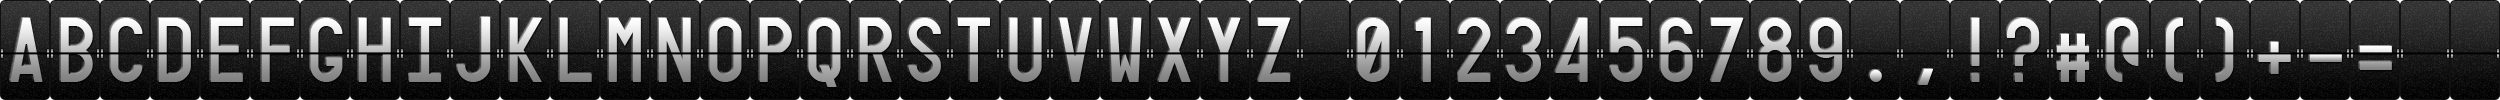
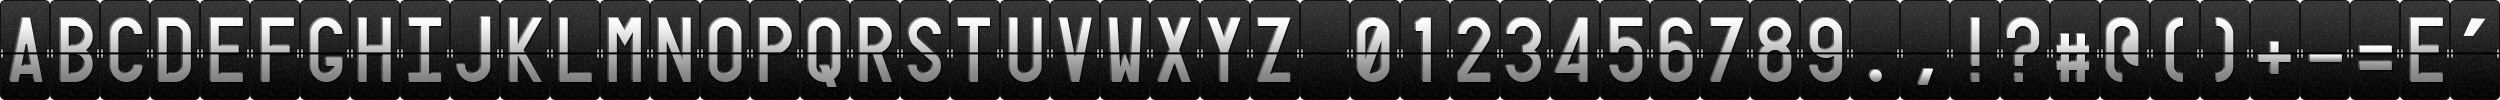
try on display boarding

Changed region(s): [[0.936, 0.15, 0.9984, 0.54], [0.936, 0.54, 0.9984, 0.84]]

diff --git a/src/boardingpass.html b/src/boardingpass.html
@@ -318,22 +318,25 @@ chromium-browser --noerrdialogs --ignore-gpu-blacklist --disable-infobars --disa
                                 
                             }
                         });
-                        self.settingFlap(0);
+                        setTimeout(function(){
+                            self.settingFlap(0);
+                        }, 400);
                     },
                     settingFlap:function(index){
                         var ratio = this.ratio,
                             value = this.questions[index].question,
                             self = this,
                             space = " ";
-                            (value.length < 54)? value += space.repeat(54 - value.length) : value = value.substring(0, 54);
+                        (value.length < 54)? value += space.repeat(54 - value.length) : value = value.substring(0, 54);
+                        console.log('VALUE ', value, index);
                         $("#flap_"+index)
                             .splitFlap({
                                 charWidth:  50 * ratio,
                                 charHeight: 100 * ratio,
                                 imageSize:  (2500 * ratio) + 'px ' + (100 * ratio) + 'px',
                                 autoplay:   true,
-                            	charsMap:   'ABCDEFGHIJKLMNOPQRSTUVWXYZ 0123456789.,!?#@()+-=',
-                                text:           value,
+                            	charsMap:   "ABCDEFGHIJKLMNOPQRSTUVWXYZ 0123456789.,!?#@()+-=É'",
+                                text:           value.normalize('NFD').replace(/[\u0300-\u036f]/g, "").toUpperCase(),
                                 textInit:       space.repeat(54),
                                 speed:          100,
                                 speedVariation: 2,
